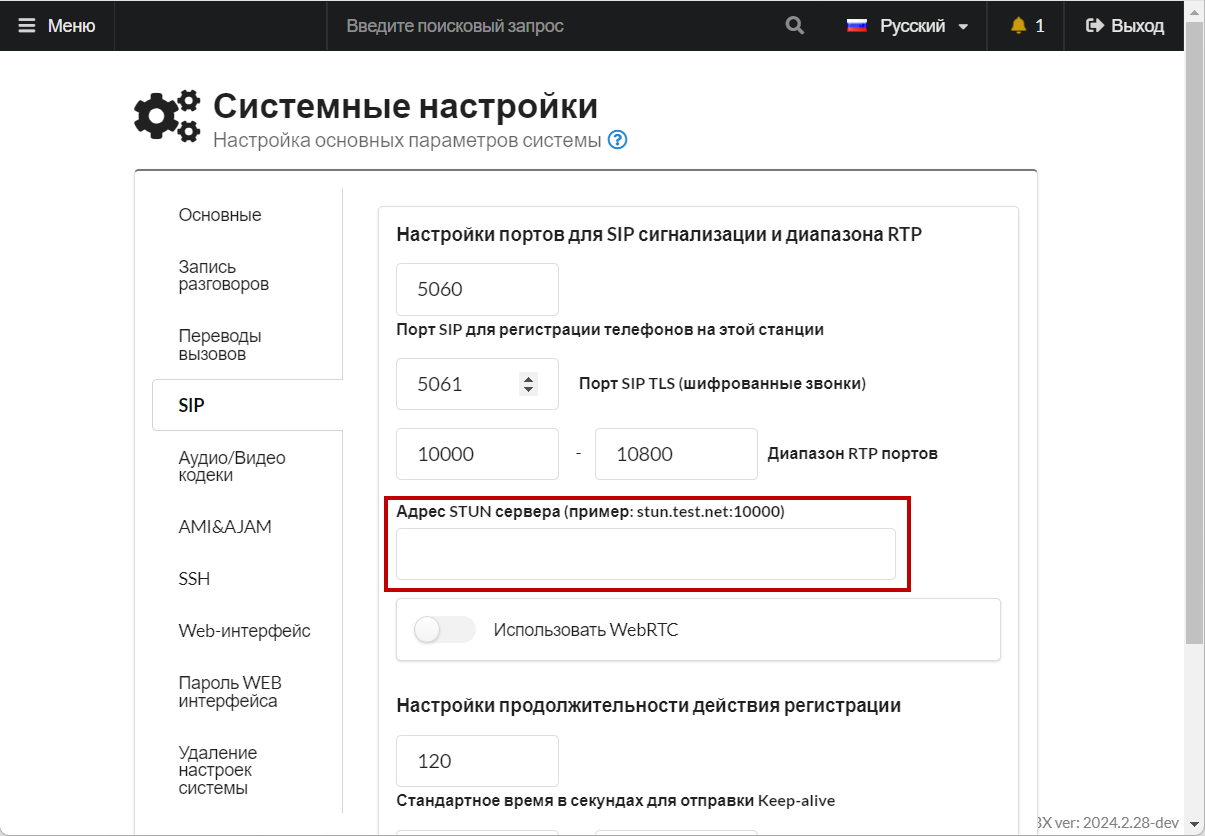
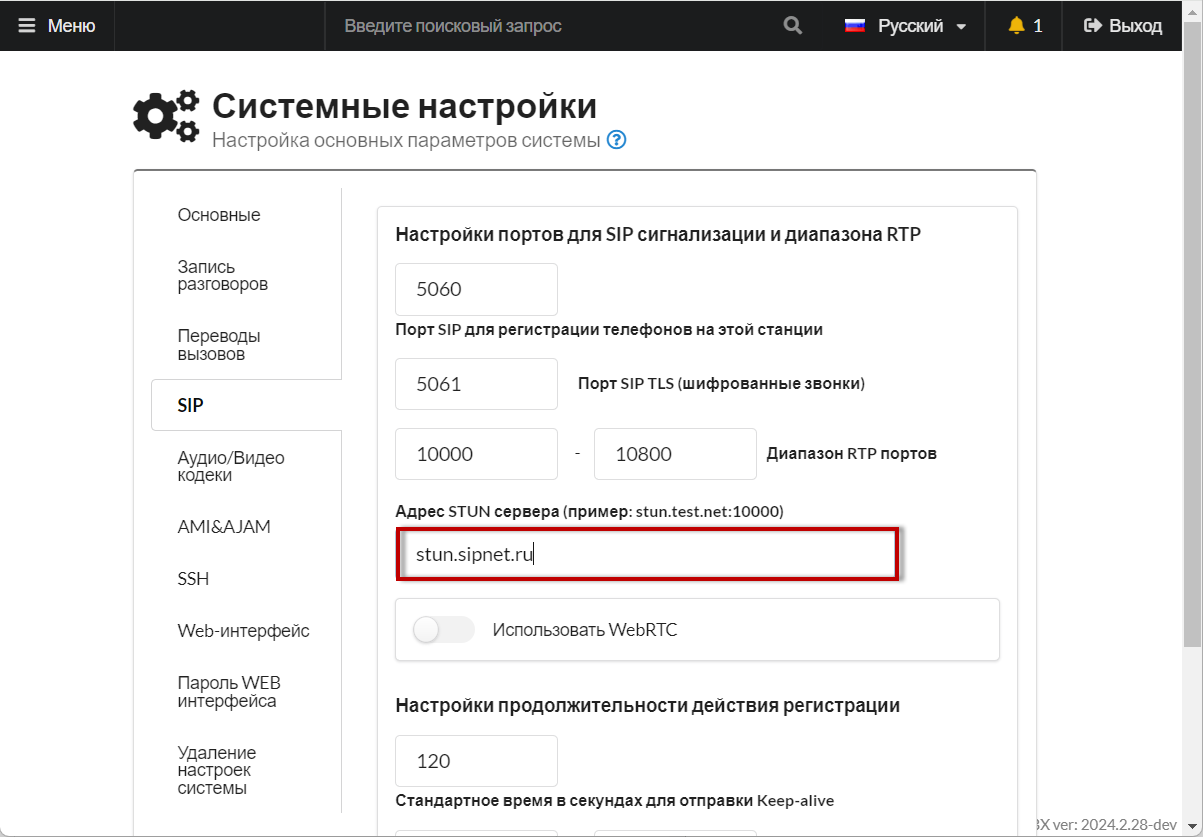
GITBOOK-615: No subject

diff --git a/faq/softphones/nastroika-webrtc-klienta-sipml5.md b/faq/softphones/nastroika-webrtc-klienta-sipml5.md
@@ -1,0 +1,73 @@
+# Настройка WebRTC клиента SIPML5
+
+## Настройка АТС <a href="#nastrojka_ats" id="nastrojka_ats"></a>
+
+Для корректной работа WebRTC в большинстве браузеров необходим доверенный SSL сертификат. Рекомендуем использовать дополнительный модуль [Модуль Lets encrypt](../../modules/miko/module-get-ssl-lets-encrypt.md). Для использования модуля АТС должна быть доступна на белом IP адресе.
+
+1. Создайте новую учетную запись [**сотрудника**](../../manual/telefoniya/extensions.md).
+2. **Вариант 1.** Индивидуально для каждого внутреннего номера устанавливается, что он работает только по протоколу RTС. В разделе «**Расширенные настройки**» - «**Дополнительные параметры SIP учетной записи**» Добавьте опции:
+
+```
+ [endpoint]
+webrtc=yes
+```
+
+Нажмите «**Сохранить**». С этого момента данный внутренний номер сможет работать _только_ по протоколу WebRTC.
+
+<figure><img src="../../.gitbook/assets/additionalInfoExtension (1).png" alt=""><figcaption><p>Extra options в параметрах сотрудника </p></figcaption></figure>
+
+\
+**Вариант 2.** Для всех внутренних номеров устанавливается, что они могут работать, _как по протоколу PJSIP, так и по WebRTC_.\
+Для этого в разделе **Система → Общие настройки → SIP** включите переключатель «**Использовать WebRTC**».
+
+<figure><img src="../../.gitbook/assets/webrtcBtn.png" alt=""><figcaption><p>Переключатель "Использовать WebRTC"</p></figcaption></figure>
+
+3. В MikoPBX в разделе «**Сеть и Firewall**» → «**Сетевой экран**» добавить подсеть 0.0.0.0 с маской 0.0.0.0. Откройте доступ по AJAM
+
+<figure><img src="../../.gitbook/assets/ajamBtn.png" alt=""><figcaption><p>Адрес, маска, переключатель AJAM в настройках сетевого экрана</p></figcaption></figure>
+
+4. Перейдите в «**Система**» → «**Общие настройки**» → «**AMI\&AJAM**». Убедитесь, что «**Порт AJAM с шифрованием**» установлен в значение **8089.**
+
+<figure><img src="../../.gitbook/assets/ajamPort.png" alt=""><figcaption><p>Порт AJAM с шифрованием</p></figcaption></figure>
+
+5. В разделе «[Общие настройки](../../manual/system/general-settings.md)» укажите адрес STUN сервера. Например **stun.sipnet.ru**
+
+<figure><img src="../../.gitbook/assets/stunAddress.png" alt=""><figcaption><p>STUN сервер</p></figcaption></figure>
+
+6. Откройте в браузере ссылку «[**https://АДРЕС\_АТС:8089/asterisk/ws**](https://xn--\_-7sbbof9dici:8089/asterisk/ws)». Используйте Chrome, в других браузерах могут быть проблемы. Если сертификат самоподписанный, то может появиться предупреждение «**Подключение не защищено**», игнорируйте его и выполните действие «**Перейти на сайт**»
+
+Должно появиться следующее сообщение:
+
+<figure><img src="../../.gitbook/assets/image.png" alt=""><figcaption></figcaption></figure>
+
+Ответил asterisk - настройка прошла успешно.
+
+## Настройка Web RTC клиента <a href="#nastrojka_web_rtc_klienta" id="nastrojka_web_rtc_klienta"></a>
+
+1. Перейдите на сайт [https://sipml5.org](https://sipml5.org/). Вы будете переправлены на страницу [https://www.doubango.org/sipml5/](https://www.doubango.org/sipml5/). Перейдите по ссылке "[Enjoy our live demo](https://www.doubango.org/sipml5/call.htm?svn=252)"
+2. Настроим Web RTC клиент:
+
+<figure><img src="../../.gitbook/assets/image (1).png" alt=""><figcaption></figcaption></figure>
+
+Поле «**Public Identity**» опишите по шаблону
+
+```
+sip:ВНУТРЕННИЙ_НОМЕР@АДРЕС_АТС
+```
+
+**При включении опции** [Использовать WebRTC](../../manual/system/general-settings.md#sip)
+
+```
+sip:ВНУТРЕННИЙ_НОМЕР-WS@АДРЕС_АТС
+```
+
+Кликните по кнопке «**Expert mode?**» и выполните дополнительную настройку:
+
+<figure><img src="../../.gitbook/assets/image (2).png" alt=""><figcaption></figcaption></figure>
+
+«**WebSocket Server URL**» опишите по шаблону
+
+<pre><code><strong>wss://АДРЕС_АТС:8089/asterisk/ws
+</strong></code></pre>
+
+Выполните действие **Login.** Теперь можно совершать звонки.

diff --git a/setup/bare-metal.md b/setup/bare-metal.md
@@ -30,7 +30,7 @@
 
 3. Выполните действие «**Refresh drives**». Выберите **USB диск,** далее выберите файл образа. Выполните действие «**Write**»
 
-<figure><img src="../.gitbook/assets/image (2).png" alt=""><figcaption><p>Руководство по записи образа на флэш-накопитель</p></figcaption></figure>
+<figure><img src="../.gitbook/assets/image (2) (1).png" alt=""><figcaption><p>Руководство по записи образа на флэш-накопитель</p></figcaption></figure>
 
 4. Дождитесь окончания записи, далее подключите **USB** диск к ПК. Перезагрузите ПК для загрузки с диска.
 
@@ -50,7 +50,7 @@ diskutil list
 
 Будет отображена информация о **всех** подключенных дисках
 
-<figure><img src="../.gitbook/assets/image (3).png" alt=""><figcaption><p>Список всех подключенных дисков</p></figcaption></figure>
+<figure><img src="../.gitbook/assets/image (3) (1).png" alt=""><figcaption><p>Список всех подключенных дисков</p></figcaption></figure>
 
 В текущем примере имя устройства USB «**/dev/disk3**». Cравним вывод команды «diskutil list» до и после подключения устройства.
 

diff --git a/faq/troubleshooting/jitter-configuration/solving-sound-problems.md b/faq/troubleshooting/jitter-configuration/solving-sound-problems.md
@@ -52,7 +52,7 @@
 
 В версиях АТС **2021.4.1+** появилась возможность прописать **stun** сервер, он необходим для корректного определения внешнего адреса, и на моей практике, пригодился для корректной работы webRTC клиента:
 
-<figure><img src="../../../.gitbook/assets/stunAddress.png" alt=""><figcaption><p>Адрес STUN сервера</p></figcaption></figure>
+<figure><img src="../../../.gitbook/assets/stunAddress (1).png" alt=""><figcaption><p>Адрес STUN сервера</p></figcaption></figure>
 
 **Симптомы** некорректной настройки:
 

diff --git a/SUMMARY.md b/SUMMARY.md
@@ -189,8 +189,8 @@
   * [Linphone (MacOS)](faq/softphones/linphone-macos.md)
   * [Telephone(MacOS)](faq/softphones/telephone-macos.md)
   * [Softphone.pro](http://wiki.mikopbx.ru/faq:softphone\_pro)
-  * [SIPML5 (WebRTC)](https://wiki.mikopbx.ru/faq:webrtc)
   * [SIP.TG (Telegram)](https://wiki.mikopbx.ru/faq:siptg)
+  * [Настройка WebRTC клиента SIPML5](faq/softphones/nastroika-webrtc-klienta-sipml5.md)
 * [Voip шлюзы](faq/voip-gateways/README.md)
   * [GoIP4](faq/voip-gateways/goip4.md)
   * [Yeastar NeoGate TG 400](faq/voip-gateways/yeastar-neogate-tg-400.md)
